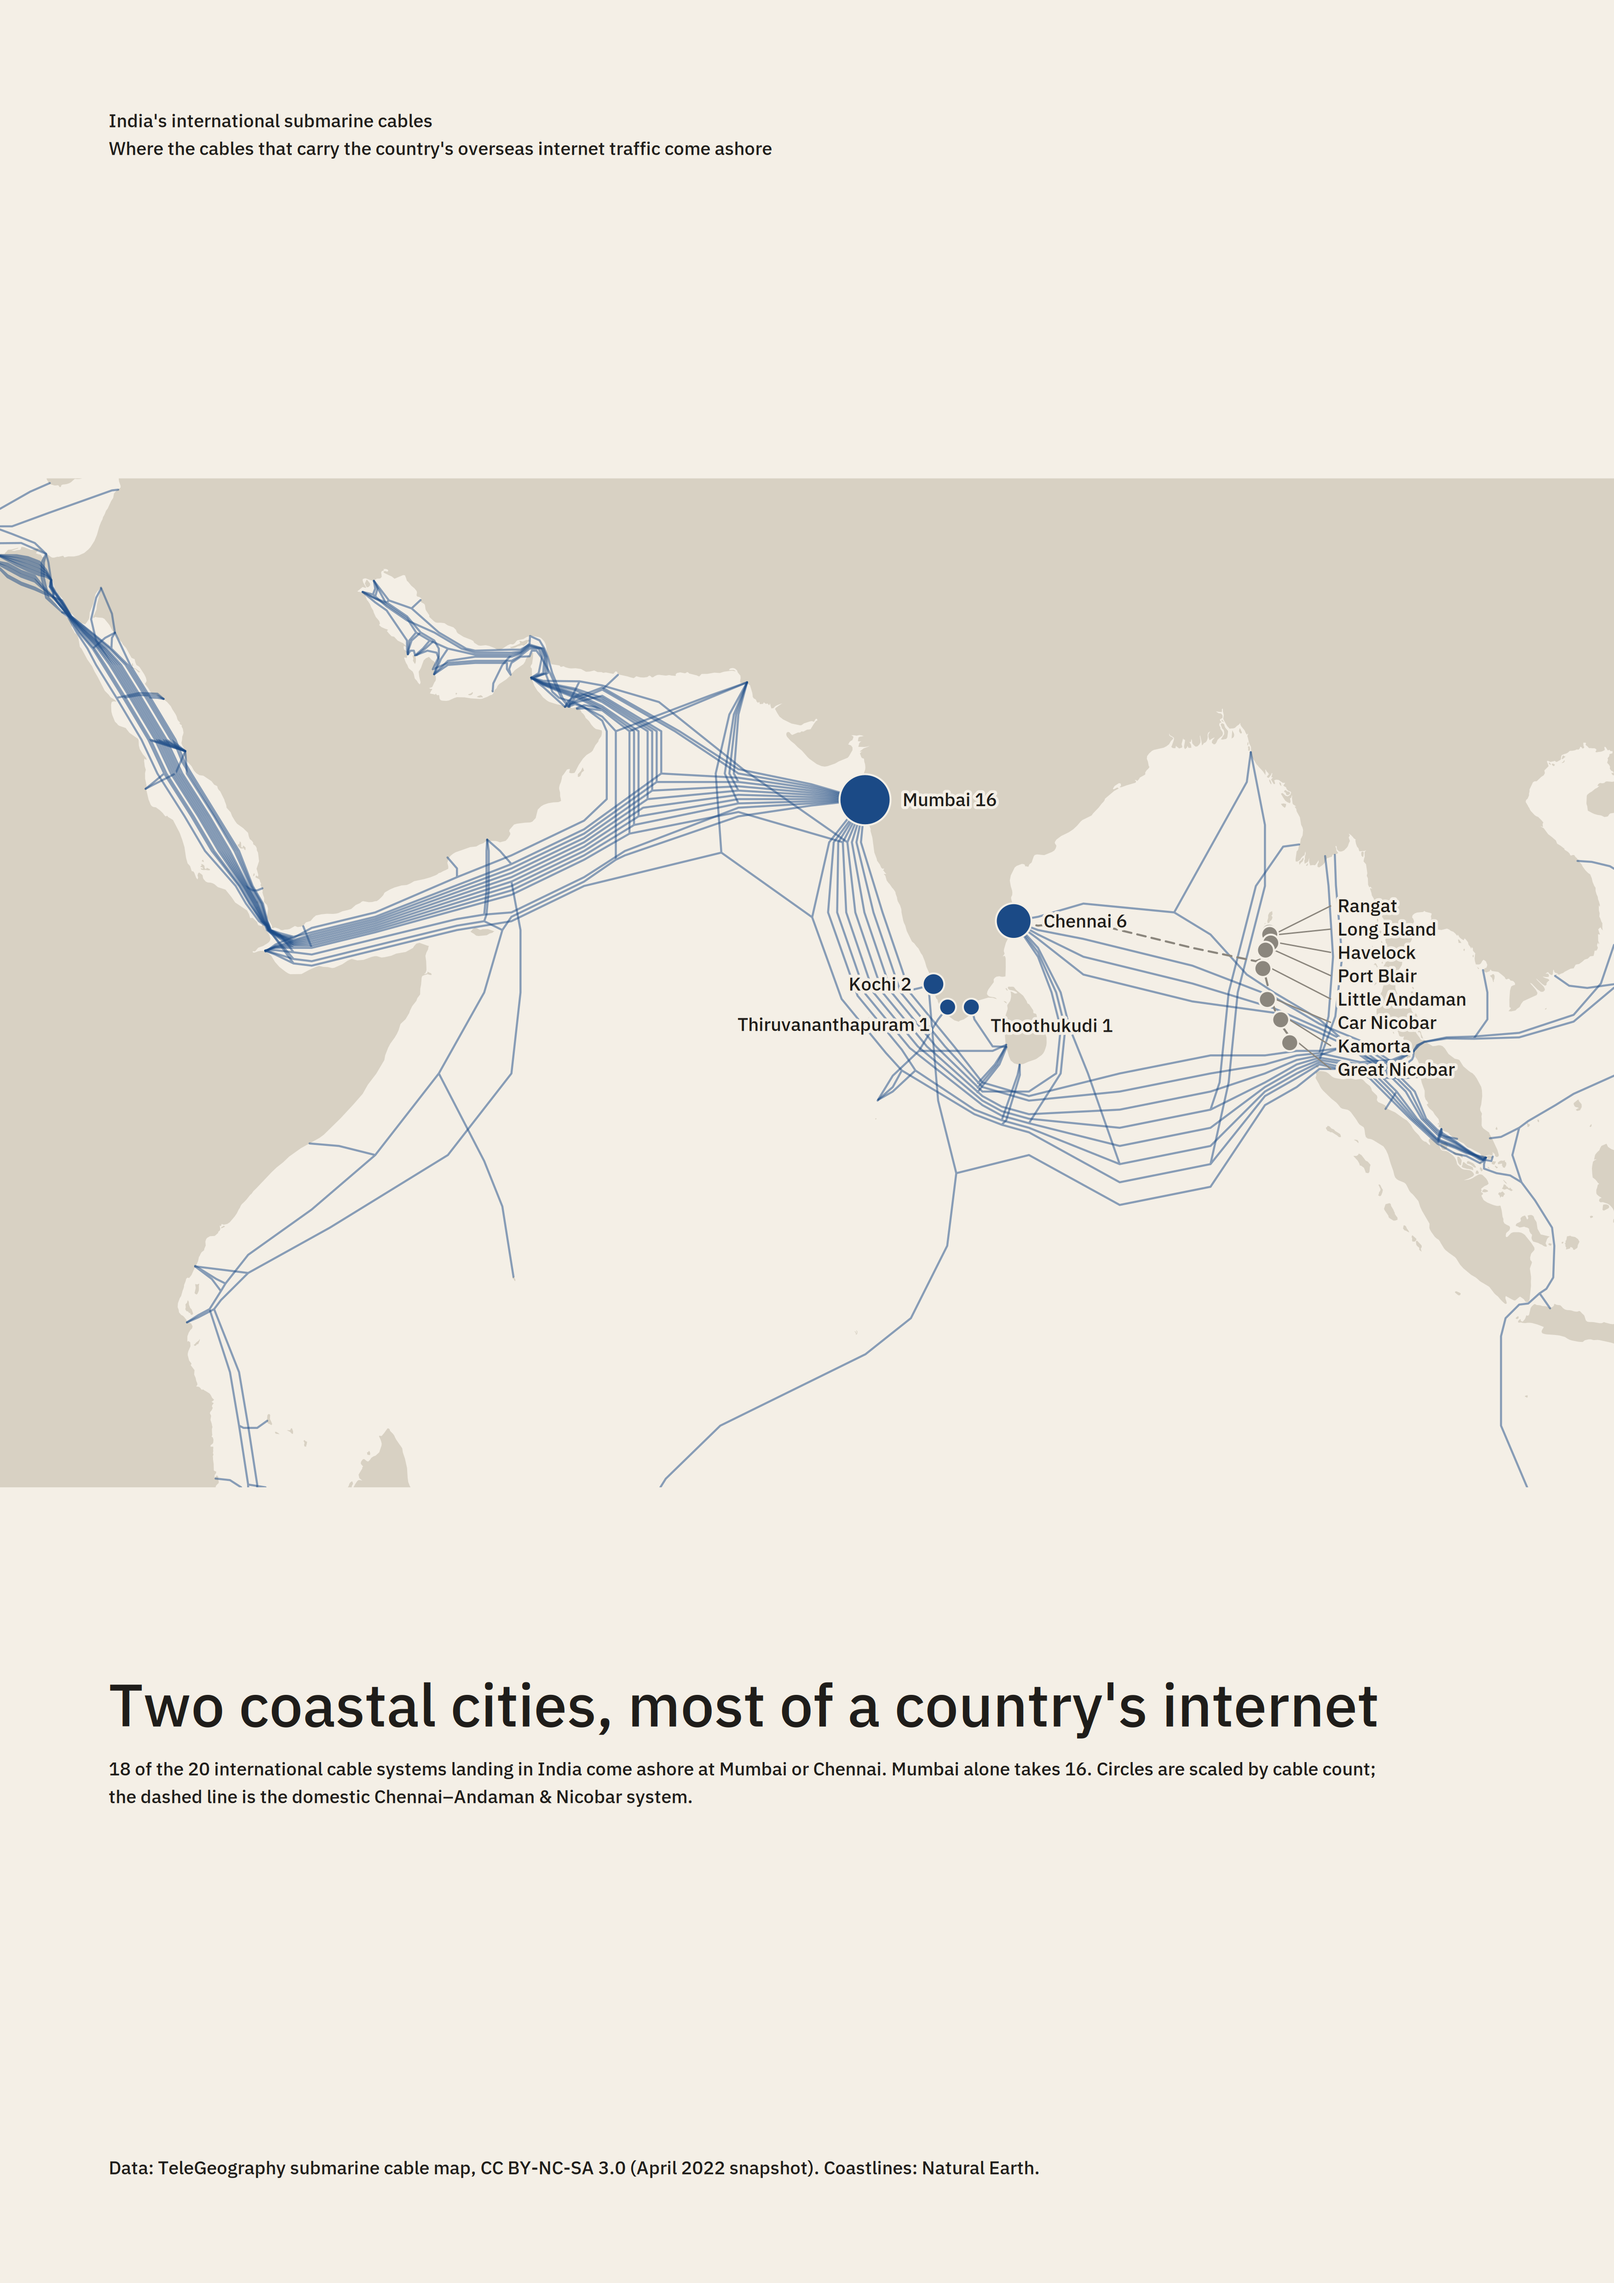
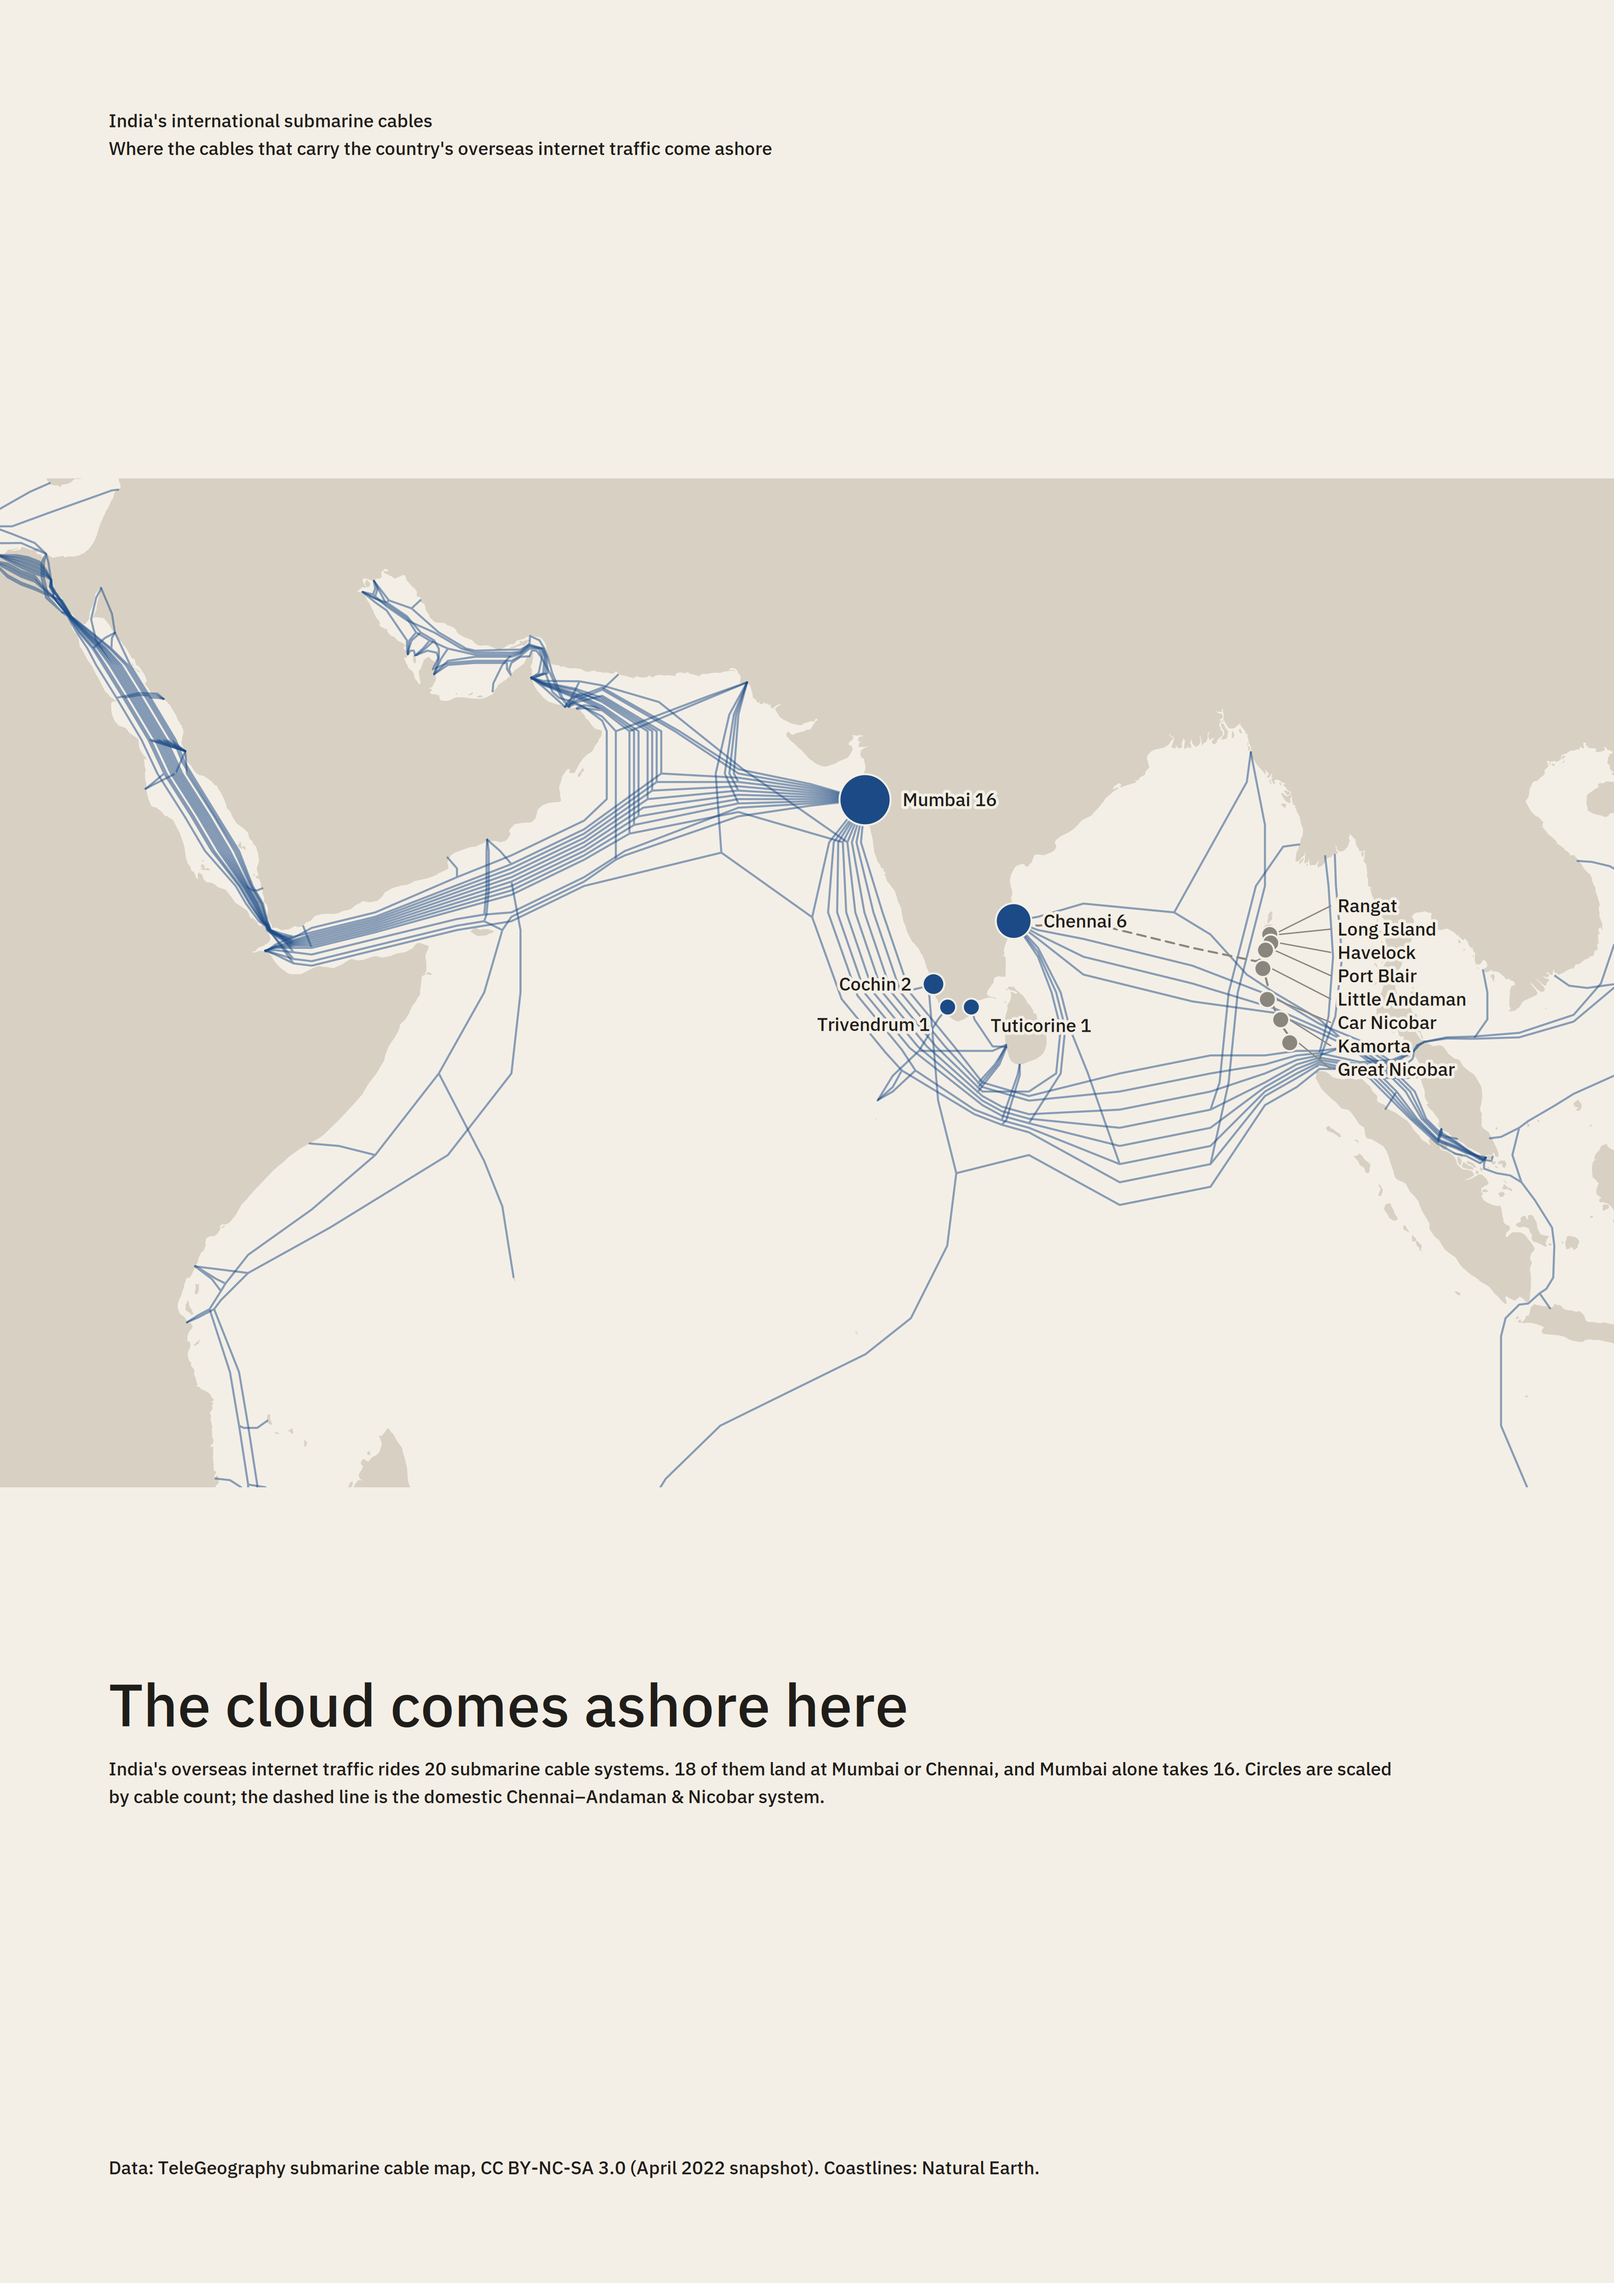
Use TeleGeography city spellings and new poster caption
Claude-Session: https://claude.ai/code/session_01LGuV5zSneGb6zThkRyWifu

Changed region(s): [[0.0621, 0.7186, 0.87, 0.8123], [0.6214, 0.4374, 0.6525, 0.4687]]

diff --git a/india-cables/render.py b/india-cables/render.py
@@ -51,8 +51,9 @@ LABEL = {
     "tuticorine-india": ( 0.8,  3.4, "start"),
 }
 DISPLAY_NAME = {
-    "mumbai-india": "Mumbai", "chennai-india": "Chennai", "cochin-india": "Kochi",
-    "trivendrum-india": "Thiruvananthapuram", "tuticorine-india": "Thoothukudi",
+    # TeleGeography's own spellings, kept as-is (including Trivendrum / Tuticorine).
+    "mumbai-india": "Mumbai", "chennai-india": "Chennai", "cochin-india": "Cochin",
+    "trivendrum-india": "Trivendrum", "tuticorine-india": "Tuticorine",
     "port-blair-india": "Port Blair", "havelock-india": "Havelock", "long-island-india": "Long Island",
     "rangat-india": "Rangat", "little-andaman-india": "Little Andaman", "car-nicobar-india": "Car Nicobar",
     "kamorta-india": "Kamorta", "great-nicobar-india": "Great Nicobar",
@@ -62,9 +63,9 @@ ISLAND_LABEL_STEP = 4.3      # mm between stacked labels
 
 TITLE = "India's international submarine cables"
 SUBTITLE = "Where the cables that carry the country's overseas internet traffic come ashore"
-CAPTION = "Two coastal cities, most of a country's internet"
-CAPTION_2 = "18 of the 20 international cable systems landing in India come ashore at Mumbai or Chennai. " \
-            "Mumbai alone takes 16. Circles are scaled by cable count; the dashed line is the domestic " \
+CAPTION = "The cloud comes ashore here"
+CAPTION_2 = "India's overseas internet traffic rides 20 submarine cable systems. 18 of them land at Mumbai or Chennai, " \
+            "and Mumbai alone takes 16. Circles are scaled by cable count; the dashed line is the domestic " \
             "Chennai–Andaman & Nicobar system."
 ATTRIBUTION = "Data: TeleGeography submarine cable map, CC BY-NC-SA 3.0 (April 2022 snapshot). Coastlines: Natural Earth."
 

diff --git a/india-cables/README.md b/india-cables/README.md
@@ -42,10 +42,10 @@ install the two .ttf files locally if you want cairosvg to use it for the PNG.
 |---|---|---|
 | Mumbai | 16 (6 planned as of 2022) | 0 |
 | Chennai | 6 (2 planned) | 1 |
-| Kochi | 2 | 0 |
-| Thiruvananthapuram | 1 | 0 |
-| Thoothukudi | 1 | 0 |
+| Cochin | 2 | 0 |
+| Trivendrum | 1 | 0 |
+| Tuticorine | 1 | 0 |
 | 8 Andaman & Nicobar sites | 0 | 1 each |
 
-Mumbai and Chennai together touch 18 of the 20 international systems; only SAFE (Kochi) and
-Bharat Lanka (Thoothukudi) miss both.
+Mumbai and Chennai together touch 18 of the 20 international systems; only SAFE (Cochin) and
+Bharat Lanka (Tuticorine) miss both.
